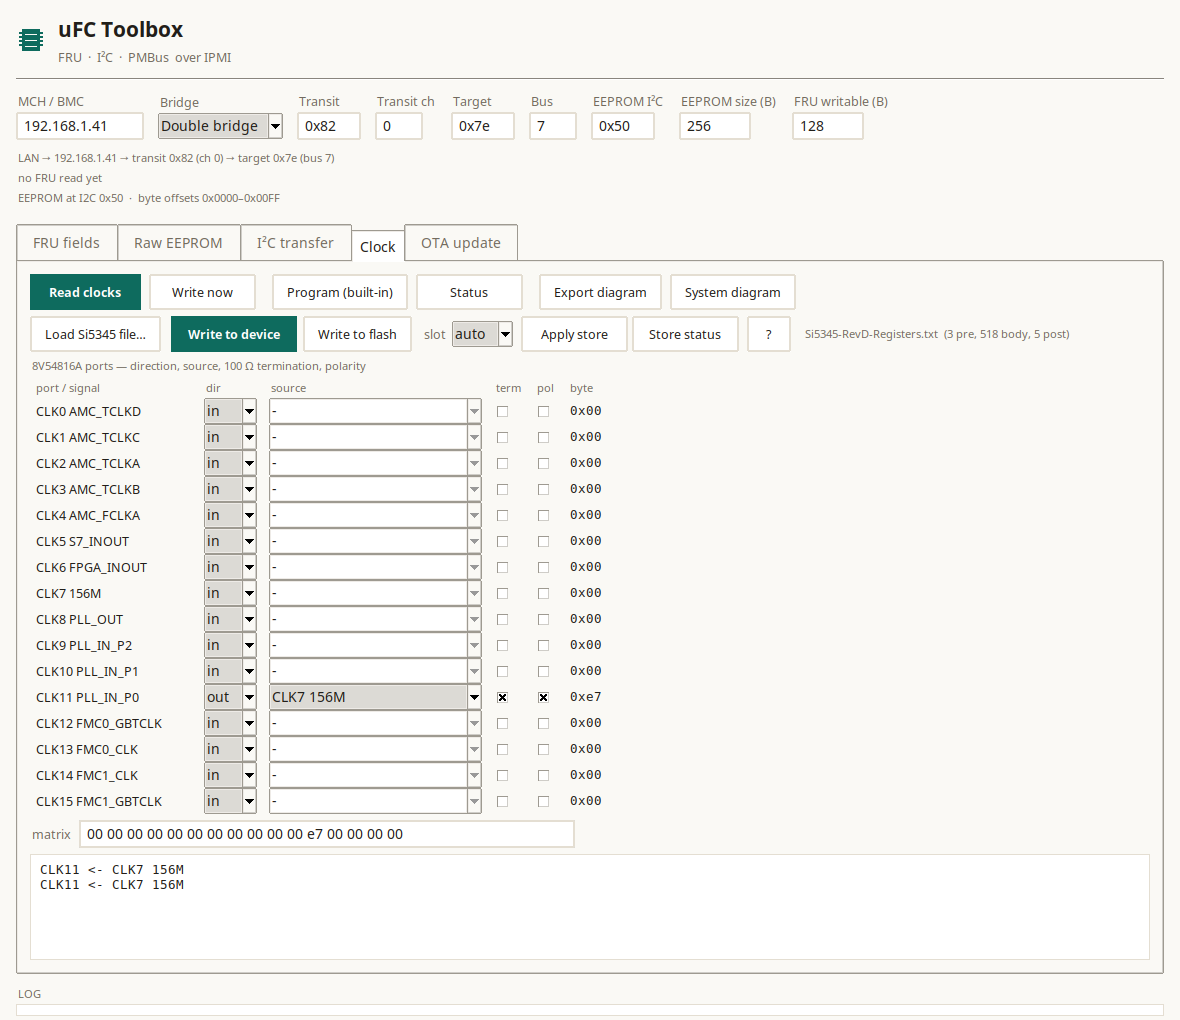
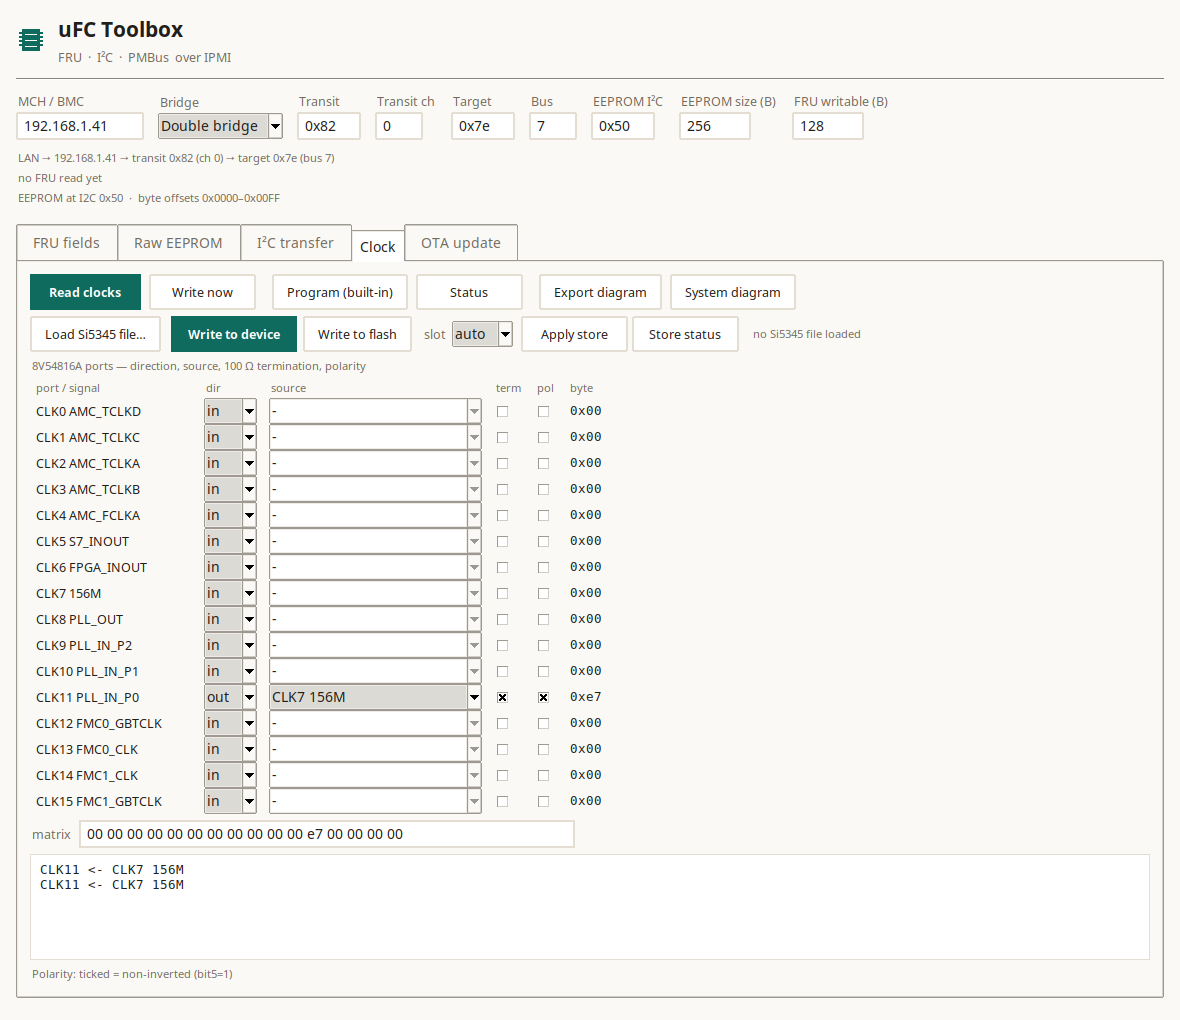
toolbox: replace the ? help button with hover hints
- the '?' button and the help window are gone;
- every clock-tab column header, checkbox, combobox and button now
  updates a hint line at the bottom of the tab while the pointer is over
  it (dir/source/term/pol/byte, write device vs write flash, slot
  selection, store actions);
- unused help constant removed; README and screenshot updated; binary
  rebuilt.

Changed region(s): [[0.0, 0.9422, 0.9763, 1.0], [0.6407, 0.3039, 0.9153, 0.3343]]

diff --git a/tools/uFC_toolbox/fru_gui_tk.py b/tools/uFC_toolbox/fru_gui_tk.py
@@ -28,66 +28,7 @@ from fru_core import (FruAccess, parse_fru, build_image, image_for_eeprom,  # no
                       parse_si5345_txt, program_si5345,
                       build_clock_slot, upload_clock_slot)
 
-class Tooltip:
-    """Small hover help for a widget."""
-
-    def __init__(self, widget, text):
-        self.widget = widget
-        self.text = text
-        self.tip = None
-        widget.bind("<Enter>", self._show, add="+")
-        widget.bind("<Leave>", self._hide, add="+")
-
-    def _show(self, _event=None):
-        if self.tip:
-            return
-        x = self.widget.winfo_rootx() + 12
-        y = self.widget.winfo_rooty() + self.widget.winfo_height() + 6
-        self.tip = tk.Toplevel(self.widget)
-        self.tip.wm_overrideredirect(True)
-        self.tip.wm_geometry("+%d+%d" % (x, y))
-        tk.Label(self.tip, text=self.text, justify="left", background="#FFFFE1",
-                 relief="solid", borderwidth=1, font=(UI_FONT, 8),
-                 padx=6, pady=3).pack()
-
-    def _hide(self, _event=None):
-        if self.tip:
-            self.tip.destroy()
-            self.tip = None
-
-
 APP_TITLE = "uFC Toolbox"
-
-CLOCK_HELP = """8V54816A port byte (16 bytes, one per port):
-  bit7    direction: 0 = input, 1 = output
-  bit6    100 ohm internal termination
-  bit5    polarity: 1 = non-inverted, 0 = inverted
-  bit3:0  source port (which input feeds this output)
-
-  dir    in / out. Only CLK9-CLK11 are output-only and CLK7/CLK8 input-only;
-         AMC TCLK/FCLK, S7/FPGA INOUT and the FMC clocks are bidirectional
-         (capability comes from ufc-clocking.json).
-  source input port routed to this output.
-  term   switch the 100 ohm termination on (bit6).
-  pol    ticked = non-inverted (bit5=1); untick to invert the pair.
-  byte   resulting matrix byte, written to the 8V54816A at 0x58 behind the
-         TCA9548A mux 0x70 channel 2.
-
-Buttons:
-  Read clocks / Write now   read/write the 16 bytes of the switch
-  Program (built-in)        program the Si5345 from the firmware table (0x16)
-  Status                    Si5345 programming status (0x17)
-  Load Si5345 file...       parse a ClockBuilder register script (pre/body/post)
-  Write to device           write the loaded table to the Si5345 now (I2C);
-                            volatile, lost on power-cycle
-  Write to flash            store matrix + table in the MMC clock store;
-                            applied at the next power-on (slot auto/A/B)
-  Apply store               re-apply the stored configuration (0x19)
-  Store status              active slot / length / CRC (0x18)
-
-The clock store lives in the 19 KB region (pointer page + 9 KB A/B slots);
-the MMC applies the valid slot at power-on.
-"""
 
 # ---- house palette --------------------------------------------------------
 BG = "#FAF9F5"          # paper ground
@@ -384,6 +325,11 @@ class FruEditor(tk.Tk):
         ("CLK14", "FMC1_CLK"), ("CLK15", "FMC1_GBTCLK"),
     ]
 
+    def _hint(self, widget, text):
+        """Show text in the clock hint line while the pointer is over widget."""
+        widget.bind("<Enter>", lambda _e: self.clock_hint.set(text), add="+")
+        widget.bind("<Leave>", lambda _e: self.clock_hint.set(""), add="+")
+
     def _build_clock_tab(self, parent):
         row = ttk.Frame(parent)
         row.pack(fill="x", pady=(0, 6))
@@ -401,21 +347,20 @@ class FruEditor(tk.Tk):
         dev = ttk.Button(row2, text="Write to device", style="Primary.TButton",
                          command=self.si_write_device)
         dev.pack(side="left", padx=(10, 0))
-        Tooltip(dev, "Write the loaded table to the Si5345 RAM over I2C.\n"
-                     "Effective immediately, lost on power-cycle.")
+        self._hint(dev, "Write the loaded table to the Si5345 RAM over I2C - "
+                        "immediate, lost on power-cycle")
         fl = ttk.Button(row2, text="Write to flash", command=self.si_write_flash)
         fl.pack(side="left", padx=(6, 0))
-        Tooltip(fl, "Store matrix + Si5345 table in the MMC clock store.\n"
-                    "Applied automatically at the next power-on.")
+        self._hint(fl, "Store matrix + Si5345 table in the MMC clock store - "
+                       "applied automatically at the next power-on")
         ttk.Label(row2, text="slot", style="FieldLabel.TLabel").pack(side="left", padx=(10, 4))
         self.slot_sel = tk.StringVar(value="auto")
         slotsel = ttk.Combobox(row2, textvariable=self.slot_sel, values=("auto", "A", "B"),
                                width=5, state="readonly")
         slotsel.pack(side="left")
-        Tooltip(slotsel, "Flash target: auto = inactive slot (atomic), A or B explicit")
+        self._hint(slotsel, "Flash target: auto = inactive slot (atomic), A or B explicit")
         ttk.Button(row2, text="Apply store", command=self.store_apply).pack(side="left", padx=(8, 0))
         ttk.Button(row2, text="Store status", command=self.store_status).pack(side="left", padx=(4, 0))
-        ttk.Button(row2, text="?", width=2, command=self.clock_help).pack(side="left", padx=(8, 0))
         self.si_label = tk.StringVar(value="no Si5345 file loaded")
         ttk.Label(row2, textvariable=self.si_label, style="Hint.TLabel").pack(side="left", padx=(12, 0))
         self.si_groups = None
@@ -434,7 +379,7 @@ class FruEditor(tk.Tk):
         for text, col, tip in headers:
             lbl = ttk.Label(tbl, text=text, style="Hint.TLabel")
             lbl.grid(row=1, column=col, sticky="w", padx=(4, 8))
-            Tooltip(lbl, tip)
+            self._hint(lbl, tip)
         for col, weight in ((0, 0), (1, 0), (2, 0), (3, 0), (4, 0), (5, 0)):
             tbl.columnconfigure(col, weight=weight)
 
@@ -453,19 +398,19 @@ class FruEditor(tk.Tk):
             dirbox = ttk.Combobox(tbl, textvariable=d, values=("in", "out"), width=4,
                                   state="readonly")
             dirbox.grid(row=row, column=1, sticky="w", padx=(4, 8))
-            Tooltip(dirbox, "Direction: in (bit7=0) or out (bit7=1)")
+            self._hint(dirbox, "Direction: in (bit7=0) or out (bit7=1)")
             src = tk.StringVar(value="-")
             srcbox = ttk.Combobox(tbl, textvariable=src, width=24, state="disabled")
             srcbox.grid(row=row, column=2, sticky="w", padx=(4, 8))
-            Tooltip(srcbox, "Input port routed to this output (source field)")
+            self._hint(srcbox, "Input port routed to this output (source field)")
             term = tk.BooleanVar(value=False)
             termbox = ttk.Checkbutton(tbl, variable=term)
             termbox.grid(row=row, column=3, sticky="w", padx=(4, 8))
-            Tooltip(termbox, "100 ohm internal termination (bit6)")
+            self._hint(termbox, "100 ohm internal termination (bit6)")
             pol = tk.BooleanVar(value=True)
             polbox = ttk.Checkbutton(tbl, variable=pol)
             polbox.grid(row=row, column=4, sticky="w", padx=(4, 8))
-            Tooltip(polbox, "Polarity: ticked = non-inverted (bit5=1)")
+            self._hint(polbox, "Polarity: ticked = non-inverted (bit5=1)")
             byte = tk.StringVar(value="0x00")
             ttk.Label(tbl, textvariable=byte, width=6, font=(MONO_FONT, 9)).grid(
                 row=row, column=5, sticky="w", padx=(4, 8))
@@ -488,6 +433,10 @@ class FruEditor(tk.Tk):
                                  bg=PANEL, fg=INK, relief="flat", highlightthickness=1,
                                  highlightbackground=LINE, padx=8, pady=6)
         self.clock_out.pack(fill="x")
+
+        self.clock_hint = tk.StringVar(value="")
+        ttk.Label(parent, textvariable=self.clock_hint, style="Hint.TLabel").pack(
+            fill="x", pady=(4, 0))
 
     def _mux_sources(self):
         """All input-capable mux ports from the clocking file: {port: name}."""
@@ -1018,15 +967,6 @@ class FruEditor(tk.Tk):
         except Exception as e:
             self._status("Flash write failed", "error")
             self._clock_log("ERROR: %s" % e)
-
-    def clock_help(self):
-        win = tk.Toplevel(self)
-        win.title("Clock tab help")
-        txt = tk.Text(win, width=96, height=30, font=(MONO_FONT, 9), wrap="word",
-                      bg=PANEL, fg=INK, relief="flat", padx=10, pady=8)
-        txt.pack(fill="both", expand=True)
-        txt.insert("end", CLOCK_HELP)
-        txt.configure(state="disabled")
 
     def store_apply(self):
         try:

diff --git a/tools/uFC_toolbox/README.md b/tools/uFC_toolbox/README.md
@@ -159,9 +159,8 @@ always shows the 16 bytes that are written to the device.
   (explicit target; the pointer is updated after a successful finish)
 - **Apply store** / **Store status** — `0x19` / `0x18` (status shows the
   active slot)
-- **?** — opens the clock-tab help (byte layout, every column and button);
-  hovering the column headers and the controls shows the same explanations
-  as tooltips
+- hovering any column header, control or button shows a short explanation in
+  the hint line at the bottom of the tab (no help dialog)
 - **Status** — command `0x17`
 - **Export diagram** — save the merged Graphviz `.dot` (includes the FPGA
   port/pin tables)
